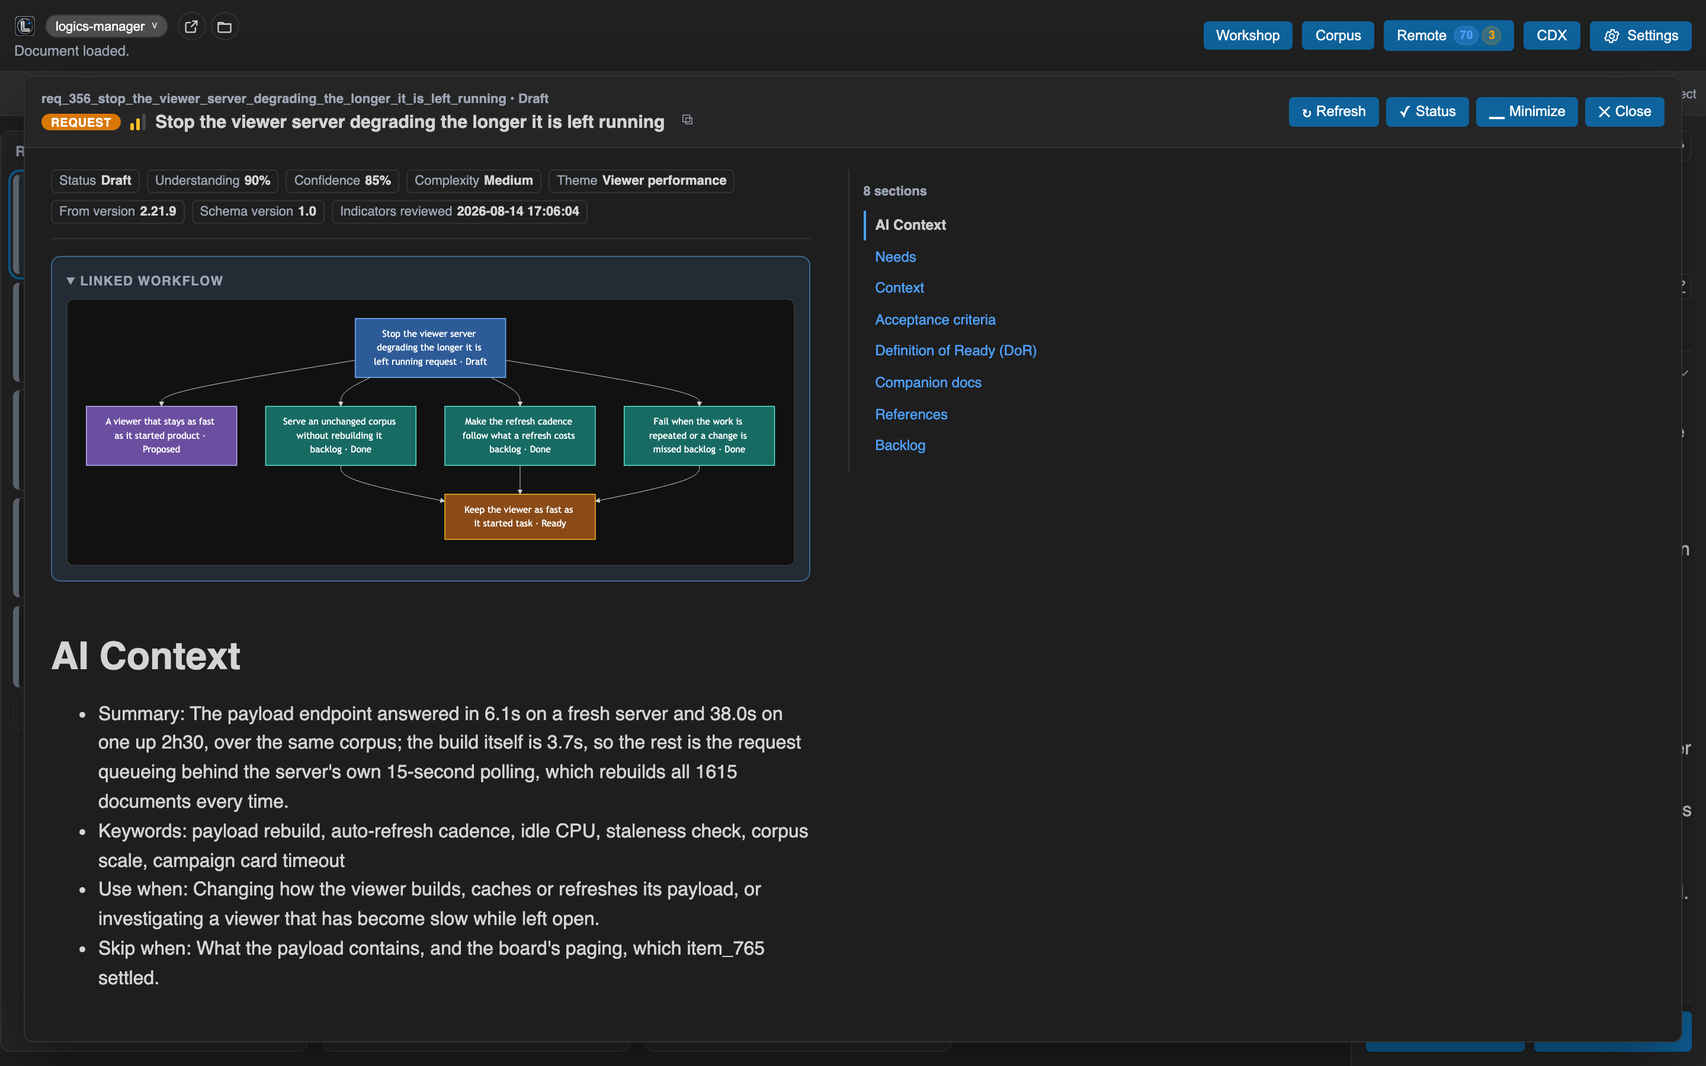
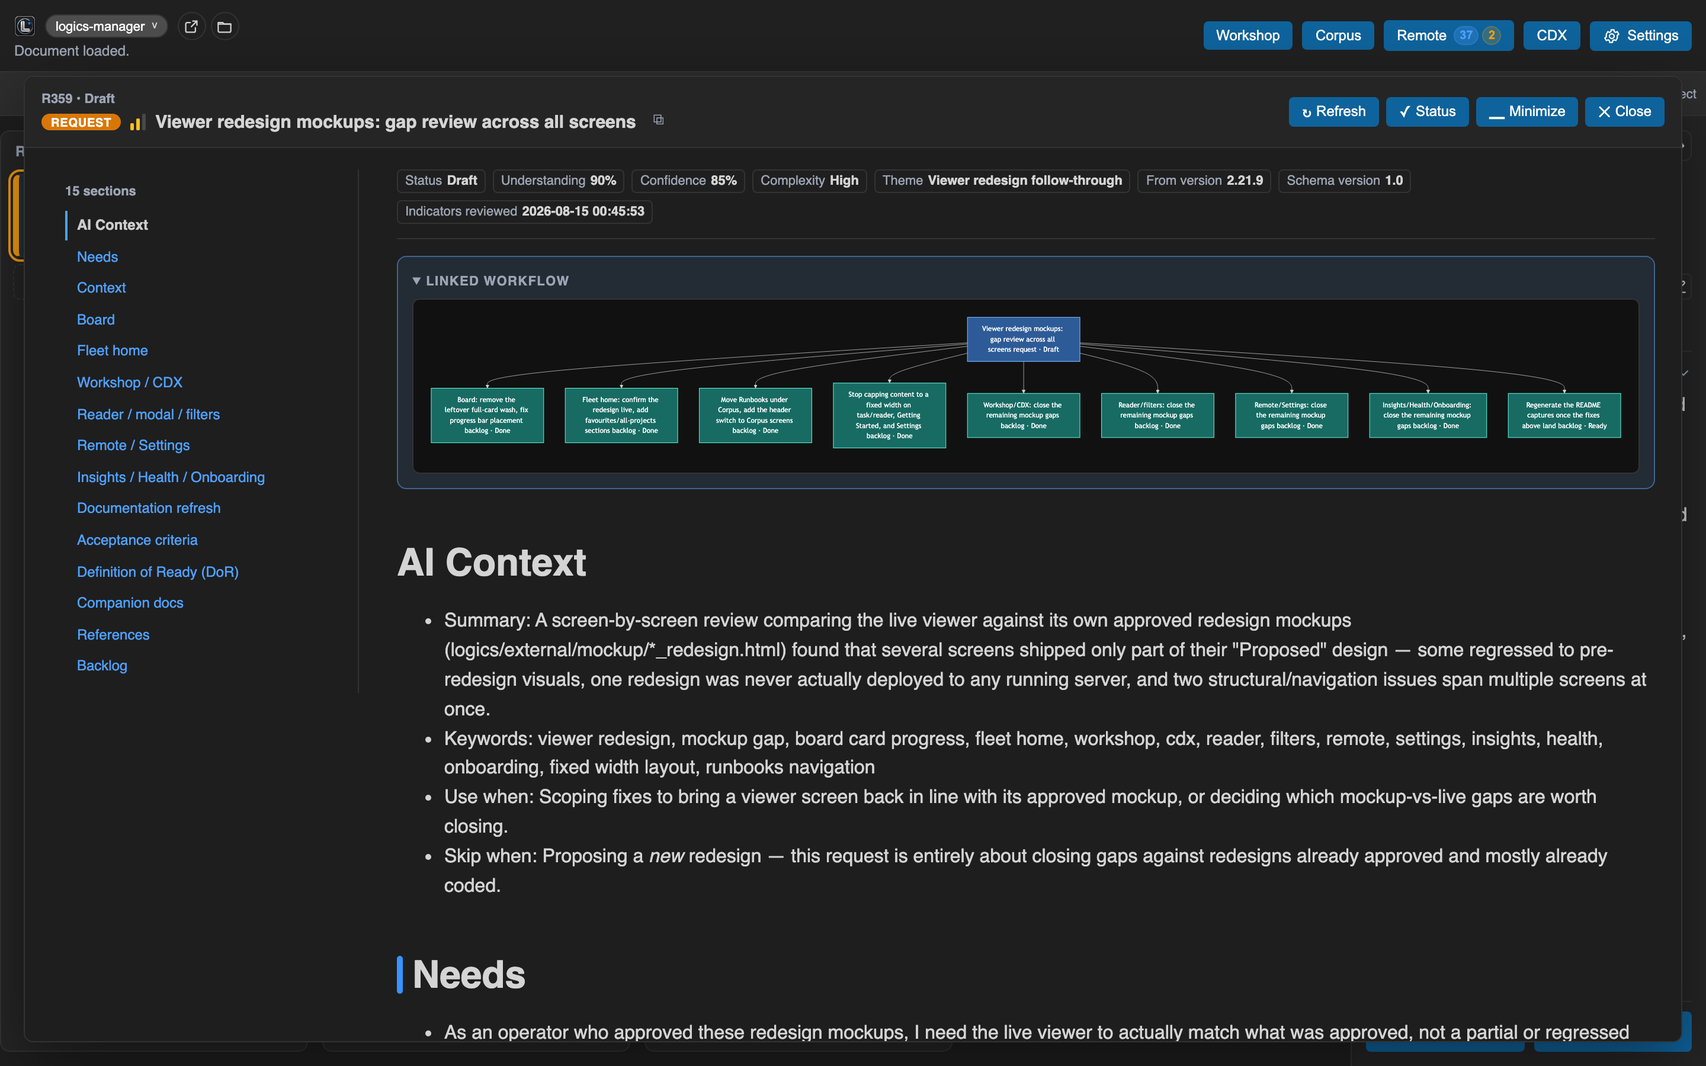
req_359/task_369: regenerate the README captures, drop the Health one
Every other slice of this request landed first, so these capture the real end
state rather than a partial one -- item_790 through item_797 checked as Done
before starting.

- Regenerated the three surviving captures and added the board's list mode,
  which the README had never shown. It is last in the script's list on purpose:
  it leaves the board in list mode, and the others assume the columns.
- The Validation health capture is deleted rather than regenerated, and the
  prose that introduced it rewritten so nothing points at a capture that is gone.
- The reader's caption still promised 'a comfortable measure' and 'eight
  sections', both made untrue by item_793 and item_795. Rewritten to describe
  what the capture now shows.

Running the whole JS suite -- overdue in this request -- surfaced three failures
in files earlier waves had not been running:
- .card--status-blocked had lost its rule in ab60da2b of this request: it said
  only border-left-color, so moving the accent colour onto the stage removed the
  entry, and blocked fell back to the base solid 5px, which is also what an
  unknown status draws. The one state worth spotting looked like the state that
  means nothing is known. It has a shape of its own now.
- webview.chrome asserted a select's disabled state that item_795 replaced.
- The orchestrator snapshot, reviewed rather than accepted blind -- which is how
  the <label> wrapping the new segments was caught: clicking the word 'Group'
[…]

diff --git a/tests/webview.chrome.test.ts b/tests/webview.chrome.test.ts
@@ -112,16 +112,23 @@ describe("webview chrome toolbar and filter behavior", () => {
     const filterToggle = dom.window.document.getElementById("filter-toggle");
     filterToggle?.dispatchEvent(new dom.window.Event("click", { bubbles: true }));
 
-    const groupBySelect = dom.window.document.getElementById("group-by") as HTMLSelectElement | null;
-    // In board mode, groupBy should be disabled
-    expect(groupBySelect?.disabled).toBe(true);
+    // item_795: `group-by` is a segmented control now, so the disabled state it syncs is
+    // its segments' rather than a select's. The rule itself is unchanged -- grouping
+    // applies in list mode, and item_764 already established that saying so beats a
+    // greyed control with its reason in a tooltip.
+    const segments = () => Array.from(
+      dom.window.document.querySelectorAll("#group-by [value]")
+    ) as HTMLButtonElement[];
+    expect(segments().length).toBeGreaterThan(0);
+    // In board mode, grouping should be disabled
+    expect(segments().every((segment) => segment.disabled)).toBe(true);
 
     // Switch to list mode
     const viewModeToggle = dom.window.document.querySelector('[data-action="toggle-view-mode"]');
     viewModeToggle?.dispatchEvent(new dom.window.Event("click", { bubbles: true }));
 
-    // Now group-by should be enabled
-    expect(groupBySelect?.disabled).toBe(false);
+    // Now grouping should be enabled
+    expect(segments().some((segment) => segment.disabled)).toBe(false);
   });
 
   it("toggles attention mode and reflects button state", () => {

diff --git a/clients/vscode/src/logicsWebviewHtml.ts b/clients/vscode/src/logicsWebviewHtml.ts
@@ -383,7 +383,9 @@ export function buildLogicsWebviewHtml(extensionUri: vscode.Uri, webview: vscode
         />
       </div>
       <div class="toolbar__ordering">
-        <label class="toolbar__select">
+        <!-- Not a <label>: it wrapped a select, and a label wrapping buttons makes clicking
+             the word "Group" press the first segment. The group names itself instead. -->
+        <div class="toolbar__select">
           <span>Group</span>
           <div class="toolbar__segmented" id="group-by" role="group" aria-label="Group items">
             <button class="toolbar__segment" type="button" value="stage" aria-pressed="true">Type</button>
@@ -391,7 +393,7 @@ export function buildLogicsWebviewHtml(extensionUri: vscode.Uri, webview: vscode
             <button class="toolbar__segment" type="button" value="theme" aria-pressed="false">Theme</button>
             <button class="toolbar__segment" type="button" value="none" aria-pressed="false">None</button>
           </div>
-        </label>
+        </div>
         <label class="toolbar__select">
           <span>Sort</span>
           <select id="sort-by" aria-label="Sort items">

diff --git a/clients/shared-web/media/css/board.css b/clients/shared-web/media/css/board.css
@@ -745,6 +745,16 @@
   border-left-color: var(--vscode-descriptionForeground, #6e7681);
 }
 
+/* item_798 follow-up: `blocked` lost its rule when ab60da2b moved the accent's colour to
+   the stage -- the rule it had said only `border-left-color`, so removing the colour
+   removed the whole entry. It then fell back to the base solid 5px, which is also what an
+   unknown status draws: the one state worth spotting looked like the state that means
+   nothing is known. Given a shape rather than a colour, like its four siblings. */
+.card--status-blocked {
+  border-left-style: solid;
+  border-left-width: 9px;
+}
+
 .card--status-progress {
   border-left-style: double;
   border-left-width: 6px;

diff --git a/logics/INDEX.md b/logics/INDEX.md
@@ -510,7 +510,7 @@
 | [req_356_stop_the_viewer_server_degrading_the_longer_it_is_left_running](request/req_356_stop_the_viewer_server_degrading_the_longer_it_is_left_running.md) | Stop the viewer server degrading the longer it is left running | Done |  |  | request/req_356_stop_the_viewer_server_degrading_the_longer_it_is_left_running.md |
 | [req_357_make_flow_s_traceability_checks_and_self_authored_writes_trustworthy](request/req_357_make_flow_s_traceability_checks_and_self_authored_writes_trustworthy.md) | Make flow's traceability checks and self-authored writes trustworthy | Done |  |  | request/req_357_make_flow_s_traceability_checks_and_self_authored_writes_trustworthy.md |
 | [req_358_performance_review_viewer_server_static_delivery_and_payload_transfer](request/req_358_performance_review_viewer_server_static_delivery_and_payload_transfer.md) | Performance review: viewer server static delivery and payload transfer | Done |  |  | request/req_358_performance_review_viewer_server_static_delivery_and_payload_transfer.md |
-| [req_359_viewer_redesign_mockups_gap_review_across_all_screens](request/req_359_viewer_redesign_mockups_gap_review_across_all_screens.md) | Viewer redesign mockups: gap review across all screens | Draft |  |  | request/req_359_viewer_redesign_mockups_gap_review_across_all_screens.md |
+| [req_359_viewer_redesign_mockups_gap_review_across_all_screens](request/req_359_viewer_redesign_mockups_gap_review_across_all_screens.md) | Viewer redesign mockups: gap review across all screens | Done |  |  | request/req_359_viewer_redesign_mockups_gap_review_across_all_screens.md |
 | [req_360_loading_border_trace_an_animated_ring_on_the_header_while_a_screen_loads](request/req_360_loading_border_trace_an_animated_ring_on_the_header_while_a_screen_loads.md) | Loading border trace: an animated ring on the header while a screen loads | Done |  |  | request/req_360_loading_border_trace_an_animated_ring_on_the_header_while_a_screen_loads.md |
 | [req_361_fleet_project_switcher_icon_buttons_show_a_clashing_native_browser_tooltip](request/req_361_fleet_project_switcher_icon_buttons_show_a_clashing_native_browser_tooltip.md) | Fleet project switcher: icon buttons show a clashing native browser tooltip | Done |  |  | request/req_361_fleet_project_switcher_icon_buttons_show_a_clashing_native_browser_tooltip.md |
 | [req_362_fleet_and_runbooks_dead_end_screen_unpersisted_preference_dead_ui_option](request/req_362_fleet_and_runbooks_dead_end_screen_unpersisted_preference_dead_ui_option.md) | Fleet and Runbooks: dead-end screen, unpersisted preference, dead UI option | Done |  |  | request/req_362_fleet_and_runbooks_dead_end_screen_unpersisted_preference_dead_ui_option.md |
@@ -1318,7 +1318,7 @@
 | [item_795_reader_filters_close_the_remaining_mockup_gaps](backlog/item_795_reader_filters_close_the_remaining_mockup_gaps.md) | Reader/filters: close the remaining mockup gaps | Done |  | 100% | backlog/item_795_reader_filters_close_the_remaining_mockup_gaps.md |
 | [item_796_remote_settings_close_the_remaining_mockup_gaps](backlog/item_796_remote_settings_close_the_remaining_mockup_gaps.md) | Remote/Settings: close the remaining mockup gaps | Done |  | 100% | backlog/item_796_remote_settings_close_the_remaining_mockup_gaps.md |
 | [item_797_insights_health_onboarding_close_the_remaining_mockup_gaps](backlog/item_797_insights_health_onboarding_close_the_remaining_mockup_gaps.md) | Insights/Health/Onboarding: close the remaining mockup gaps | Done |  | 100% | backlog/item_797_insights_health_onboarding_close_the_remaining_mockup_gaps.md |
-| [item_798_regenerate_the_readme_captures_once_the_fixes_above_land](backlog/item_798_regenerate_the_readme_captures_once_the_fixes_above_land.md) | Regenerate the README captures once the fixes above land | Ready |  | 0% | backlog/item_798_regenerate_the_readme_captures_once_the_fixes_above_land.md |
+| [item_798_regenerate_the_readme_captures_once_the_fixes_above_land](backlog/item_798_regenerate_the_readme_captures_once_the_fixes_above_land.md) | Regenerate the README captures once the fixes above land | Done |  | 100% | backlog/item_798_regenerate_the_readme_captures_once_the_fixes_above_land.md |
 | [item_799_fleet_project_switcher_icon_buttons_show_a_clashing_native_browser_tooltip](backlog/item_799_fleet_project_switcher_icon_buttons_show_a_clashing_native_browser_tooltip.md) | Fleet project switcher: icon buttons show a clashing native browser tooltip | Done |  | 100% | backlog/item_799_fleet_project_switcher_icon_buttons_show_a_clashing_native_browser_tooltip.md |
 | [item_800_fleet_home_clear_the_root_screen_latch_once_a_project_is_active](backlog/item_800_fleet_home_clear_the_root_screen_latch_once_a_project_is_active.md) | Fleet home: clear the root-screen latch once a project is active | Done |  | 100% | backlog/item_800_fleet_home_clear_the_root_screen_latch_once_a_project_is_active.md |
 | [item_801_runbooks_persist_show_hidden_and_default_it_to_on](backlog/item_801_runbooks_persist_show_hidden_and_default_it_to_on.md) | Runbooks: persist "Show hidden" and default it to on | Done |  | 100% | backlog/item_801_runbooks_persist_show_hidden_and_default_it_to_on.md |
@@ -1696,7 +1696,7 @@
 | [task_366_reader_filters_close_the_remaining_mockup_gaps](tasks/task_366_reader_filters_close_the_remaining_mockup_gaps.md) | Reader/filters: close the remaining mockup gaps | Done |  | 100% | tasks/task_366_reader_filters_close_the_remaining_mockup_gaps.md |
 | [task_367_remote_settings_close_the_remaining_mockup_gaps](tasks/task_367_remote_settings_close_the_remaining_mockup_gaps.md) | Remote/Settings: close the remaining mockup gaps | Done |  | 100% | tasks/task_367_remote_settings_close_the_remaining_mockup_gaps.md |
 | [task_368_insights_health_onboarding_close_the_remaining_mockup_gaps](tasks/task_368_insights_health_onboarding_close_the_remaining_mockup_gaps.md) | Insights/Health/Onboarding: close the remaining mockup gaps | Done |  | 100% | tasks/task_368_insights_health_onboarding_close_the_remaining_mockup_gaps.md |
-| [task_369_regenerate_the_readme_captures_once_the_fixes_above_land](tasks/task_369_regenerate_the_readme_captures_once_the_fixes_above_land.md) | Regenerate the README captures once the fixes above land | Ready |  | 0% | tasks/task_369_regenerate_the_readme_captures_once_the_fixes_above_land.md |
+| [task_369_regenerate_the_readme_captures_once_the_fixes_above_land](tasks/task_369_regenerate_the_readme_captures_once_the_fixes_above_land.md) | Regenerate the README captures once the fixes above land | Done |  | 100% | tasks/task_369_regenerate_the_readme_captures_once_the_fixes_above_land.md |
 | [task_370_fleet_project_switcher_icon_buttons_show_a_clashing_native_browser_tooltip](tasks/task_370_fleet_project_switcher_icon_buttons_show_a_clashing_native_browser_tooltip.md) | Fleet project switcher: icon buttons show a clashing native browser tooltip | Done |  | 100% | tasks/task_370_fleet_project_switcher_icon_buttons_show_a_clashing_native_browser_tooltip.md |
 | [task_371_fleet_home_clear_the_root_screen_latch_once_a_project_is_active](tasks/task_371_fleet_home_clear_the_root_screen_latch_once_a_project_is_active.md) | Fleet home: clear the root-screen latch once a project is active | Done | assistant | 100% | tasks/task_371_fleet_home_clear_the_root_screen_latch_once_a_project_is_active.md |
 | [task_372_runbooks_persist_show_hidden_and_default_it_to_on](tasks/task_372_runbooks_persist_show_hidden_and_default_it_to_on.md) | Runbooks: persist "Show hidden" and default it to on | Done | assistant | 100% | tasks/task_372_runbooks_persist_show_hidden_and_default_it_to_on.md |

diff --git a/logics/tasks/task_369_regenerate_the_readme_captures_once_the_fixes_above_land.md b/logics/tasks/task_369_regenerate_the_readme_captures_once_the_fixes_above_land.md
@@ -1,10 +1,10 @@
 ## task_369_regenerate_the_readme_captures_once_the_fixes_above_land - Regenerate the README captures once the fixes above land
 > From version: 2.21.9
 > Schema version: 1.0
-> Status: Ready
+> Status: Done
 > Understanding: 90%
 > Confidence: 85%
-> Progress: 0%
+> Progress: 100%
 > Complexity: Medium
 > Theme: Implementation delivery
 > Reminder: Update status/understanding/confidence/progress and linked request/backlog references when you edit this doc.
@@ -17,10 +17,10 @@
 - Skip when: Any of the actual screen fixes — those are the other tasks.
 
 # Definition of Done (DoD)
-- [ ] The backlog scope is implemented.
-- [ ] Acceptance criteria are covered.
-- [ ] Validation passes.
-- [ ] Meaningful waves followed ADR 009: affected docs updated and the repo left commit-ready without automatic commits.
+- [x] The backlog scope is implemented.
+- [x] Acceptance criteria are covered.
+- [x] Validation passes.
+- [x] Meaningful waves followed ADR 009: affected docs updated and the repo left commit-ready without automatic commits.
 
 # Backlog
 - `item_798_regenerate_the_readme_captures_once_the_fixes_above_land`
@@ -32,14 +32,31 @@
 - AC4: The README no longer includes the Health screen capture (reported directly by the operator as deceptive), and no prose references it as if it were still there.
 
 # Plan
-- [ ] Use `python3 -m logics_manager flow progress task task_369_regenerate_the_readme_captures_once_the_fixes_above_land.md --progress <n>%` during multi-wave work.
-- [ ] Run `python3 -m logics_manager flow finish task task_369_regenerate_the_readme_captures_once_the_fixes_above_land.md` after implementation.
+- [x] Use `python3 -m logics_manager flow progress task task_369_regenerate_the_readme_captures_once_the_fixes_above_land.md --progress <n>%` during multi-wave work.
+- [x] Run `python3 -m logics_manager flow finish task task_369_regenerate_the_readme_captures_once_the_fixes_above_land.md` after implementation.
 
 # Validation
-- (no validation recorded yet)
+- `node scripts/dev/capture-readme-media.mjs`: wrote `viewer-board.png`, `viewer-document.png`, `viewer-insights.png`, `viewer-board-list.png` and a regenerated `PROVENANCE.md`, against this repository's own corpus with the board settling on 31 cards.
+- `npx vitest run` (the whole suite, 87 files): 956/956 passed. `python3 -m pytest tests/python`: 1386/1386 passed. `node scripts/check-readme-badges.mjs`: OK. `python3 -m logics_manager lint`: OK.
+- AC2's precondition checked before starting rather than assumed: item_790 through item_797 all read `Status: Done`.
+- The captures were read after generation, not just written: the reader capture shows the short reference `R359 · Draft`, the fifteen-section contents rail on the left and the document filling the width beside it; the list capture shows group headers with live/total counts, per-row status, linked count and age, and the stage-coloured selection outline.
+- Finish workflow executed on 2026-08-15.
+- Linked backlog/request close verification passed.
 
 # Report
-- Not started.
+- Regenerated the three surviving captures and added `viewer-board-list.png`. The list capture is last in the script's list on purpose: it leaves the board in list mode, and every other capture assumes the columns.
+- The Validation health capture is deleted rather than regenerated (AC4), and the prose that introduced it is rewritten so nothing refers to a capture that is gone. `PROVENANCE.md` regenerates itself from the script's own list, so its entry disappeared without being edited.
+- Caught by reading the new captures rather than only producing them: the reader's caption still described "a comfortable measure" and "eight sections", both of which item_793 and item_795 had made untrue. Rewritten to describe what the capture now shows.
+- Caught by running the *whole* JS suite for the first time in this request, which was overdue: three failures in files earlier waves had not been running.
+  - `viewer.state-channels`: `.card--status-blocked` had lost its rule in commit `ab60da2b` of this request. That rule said only `border-left-color`, so moving the accent's colour onto the stage removed the entry entirely, and `blocked` fell back to the base solid 5px -- which is also what an unknown status draws. The one state worth spotting looked like the state that means nothing is known. It has a shape of its own now, like its four siblings.
+  - `webview.chrome`: asserted `groupBySelect.disabled`, which stopped existing when item_795 made Group a segmented control. Updated to assert the segments'; the rule it guards is unchanged.
+  - `logicsHtml`: the orchestrator webview snapshot. Updated, and the change reviewed rather than accepted blind -- which is how the `<label>` wrapping the new segments was spotted: a label wrapping buttons makes clicking the word "Group" press the first segment.
+- Finished on 2026-08-15.
+- Linked backlog item(s): `item_798_regenerate_the_readme_captures_once_the_fixes_above_land`
+- Related request(s): `req_359_viewer_redesign_mockups_gap_review_across_all_screens`
+
+# AC Traceability
+- request-AC7 -> This task. Proof: all four published captures regenerated from `scripts/dev/capture-readme-media.mjs` against this repository's corpus after every other slice landed, with the Health capture removed and the board's list mode added. Verified by reading the resulting images, which show the short-ref eyebrow, the left contents rail, the full-width document, and the list's group headers, ages and stage-coloured selection.
 
 # Links
 - Request: `req_359_viewer_redesign_mockups_gap_review_across_all_screens`

diff --git a/README.md b/README.md
@@ -38,19 +38,22 @@ embedded in the VS Code extension.
 
 ![The board: three flow columns — requests, backlog, tasks — each headed with how many are live against how many are done, beside a reference index of product briefs and roadmaps](docs/media/viewer-board.png)
 
-Reading a document opens it at a comfortable measure, with its sections listed beside it
-and your position in them marked.
+Reading a document lists its sections down the left, marks where you are in them, and
+gives the document itself the rest of the width — its tables, chain diagrams and code are
+as much of it as its prose.
 
-![The reader: a request's AI context and needs set at a readable line length, with a contents list of its eight sections beside it](docs/media/viewer-document.png)
+![The reader: a request opened with its fifteen sections listed down the left, its linked workflow drawn as a chain, and the document filling the width beside them](docs/media/viewer-document.png)
 
-Validation health answers whether anything blocks, then lists the lint, audit and workflow
-findings behind that answer — with a repair action where fixes are automatic.
-
-![Validation health: a headline reading "nothing blocks", counts for blocking, warnings, workflow signals and stale documents, then the findings grouped by document](docs/media/viewer-health.png)
-
-Corpus insights summarizes the shape of the corpus and the signals worth acting on.
+Corpus insights summarizes the shape of the corpus and the signals worth acting on, and
+Validation health answers whether anything blocks — with a repair action where fixes are
+automatic.
 
 ![Corpus insights: how many signals need attention across the corpus, the operator actions that address them, the corpus by stage and state, and the chains in flight](docs/media/viewer-insights.png)
+
+The same documents read as a list instead of columns, grouped by type, status, theme or
+nothing at all, sorted, and dated.
+
+![The board in list mode: one row per document under collapsible group headers, each row carrying its status, linked-document count and age](docs/media/viewer-board-list.png)
 
 The captures above are produced by `scripts/dev/capture-readme-media.mjs` against this
 repository's own corpus; `docs/media/PROVENANCE.md` records the framing.

diff --git a/logics/backlog/item_798_regenerate_the_readme_captures_once_the_fixes_above_land.md b/logics/backlog/item_798_regenerate_the_readme_captures_once_the_fixes_above_land.md
@@ -1,10 +1,10 @@
 ## item_798_regenerate_the_readme_captures_once_the_fixes_above_land - Regenerate the README captures once the fixes above land
 > From version: 2.21.9
 > Schema version: 1.0
-> Status: Ready
+> Status: Done
 > Understanding: 90%
 > Confidence: 85%
-> Progress: 0%
+> Progress: 100%
 > Complexity: Low
 > Theme: Viewer redesign follow-through
 > Reminder: Update status/understanding/confidence/progress and linked request/task references when you edit this doc.
@@ -55,3 +55,6 @@ Two additional gaps reported directly by the operator, not tied to any of the ot
 
 # Tasks
 - `task_369_regenerate_the_readme_captures_once_the_fixes_above_land`
+
+# Notes
+- Task `task_369_regenerate_the_readme_captures_once_the_fixes_above_land` was finished via `logics-manager flow finish task` on 2026-08-15.

diff --git a/docs/media/PROVENANCE.md b/docs/media/PROVENANCE.md
@@ -22,8 +22,8 @@ node scripts/dev/capture-readme-media.mjs
 
 - `viewer-board.png` — The board: the flow columns and the reference index beneath them.
 - `viewer-document.png` — The reader: a request opened from the details panel, with its contents list.
-- `viewer-health.png` — Validation health: lint, audit and workflow findings from this repository.
 - `viewer-insights.png` — Corpus insights: the shape of the corpus and the signals worth acting on.
+- `viewer-board-list.png` — The board in list mode: one row per document, grouped and sortable, with age.
 
 ## Why this is not a CI job
 

diff --git a/logics/request/req_359_viewer_redesign_mockups_gap_review_across_all_screens.md b/logics/request/req_359_viewer_redesign_mockups_gap_review_across_all_screens.md
@@ -1,7 +1,7 @@
 ## req_359_viewer_redesign_mockups_gap_review_across_all_screens - Viewer redesign mockups: gap review across all screens
 > From version: 2.21.9
 > Schema version: 1.0
-> Status: Draft
+> Status: Done
 > Understanding: 90%
 > Confidence: 85%
 > Complexity: High
